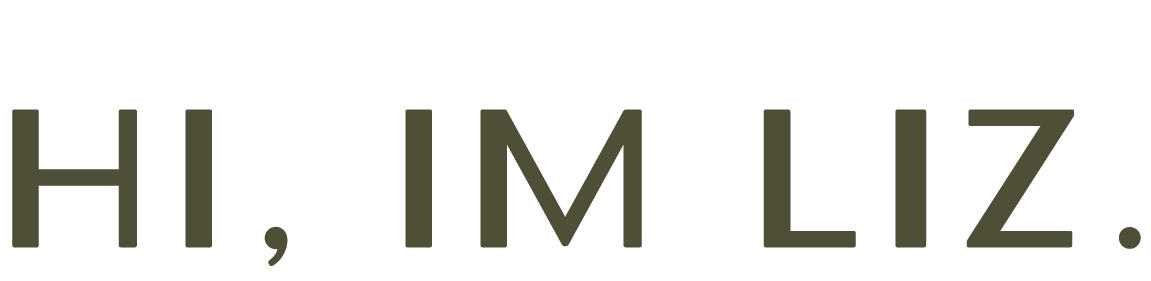
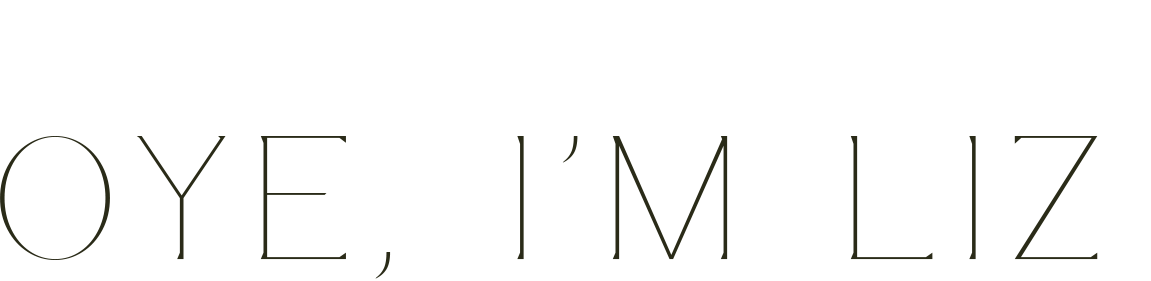
font update

diff --git a/index.html b/index.html
@@ -41,7 +41,7 @@
 <!-- PAGELOADER -->
 <div id="page-loader">
 	<div class="page-loader-inner">
-		<div class="loader">standby...</div>
+		<div class="loader"><img src="img/standby.png" style="width:130px; height: auto; margin-top:10px;"></div>
 	</div>
 </div>
 <!-- PAGELOADER -->
@@ -54,13 +54,12 @@
 		<div class="header-inner clearfix">
 			
             <div id="logo" class="left-float">
-                <a id="dark-logo" class="logotype" href="index.html"><img src="files/uploads/logo-avoc-dark.png" srcset="img/liz-logo-final-02.png 1x, img/liz-logo-final-02.png 2x" alt="Logo"></a>
+                <a id="dark-logo" class="logotype" href="index.html"><img src="img/liz-logo-final-02.png" srcset="img/liz-logo-final-02.png 1x, img/liz-logo-final-02.png 2x" alt="Logo"></a>
             </div>
             
             <div id="menu" class="right-float align-right">
 				<!--<a href="hooplah.html"><span class="text">HOOPLAH</span></a> -->
-				<a href="about.html">about</a>
-
+				<a id="dark-logo" class="logotype" href="about.html"><img src="img/about.png" srcset="img/about.png 1x, img/about.png 2x" style="width:120px;height:auto;margin-top:10px;"alt="Logo"></a>
             </div>    
                             
 		</div> <!-- END .header-inner -->
@@ -68,120 +67,147 @@
 	<!-- HEADER -->    
 	
 
-	   	<!-- HERO  -->
+	   	<!-- HERO 
 		   <section id="hero" class="hero-full parallax-section" data-parallax-image="files/uploads/1680x1100-light.jpg">
 			<div class="page-title">
-					<img src="img/website-09.png" style="width:280px; height: auto; margin-top:0;">
+					<img src="img/website-09.png" style="width:580px; height: auto; margin-top:0;">
 					<h6 class="title2">My name is Liz and I'm a multifunctional <br>designer based in california.</h6>
 			</div>
 			<a id="scroll-down" style="margin-bottom:40px;" href="#"><img src="img/stay-awhile-final.gif" style="width:100px; height: auto;"></a>
 		</section>
 		<!-- HERO -->
+
+
+		<!-- HERO  -->
+	<section id="hero" class="hero-auto">
+    	<div class="page-title wrapper-small">
+
+				<div class="spacer spacer-small"></div>
+
+			<img src="img/website-09.png" style="width:480px; height: auto; margin-top:0;">
+			<h6 class="title2">My name is Liz and I'm a multifunctional <br>designer based in california.</h6>
+    	</div> <!-- END .page-title -->
+    </section>
+	<!-- HERO -->
+	
 		<div class="spacer spacer-small"></div>
 
 	<!-- PAGEBODY -->
 	<section id="page-body" class="nopadding">
-    		<div class="spacer spacer-small"></div>
-			<div class="spacer spacer-small"></div>
-
-		<div class="wrapper">
-        
-			<div id="portfolio-grid" class="wolf-grid clearfix" data-captionparallax="false">
-
-				
-				<div class="wolf-item photography-wolf-item">
-					<div class="wolf-item-inner">
-						<div class="wolf-media photography-media">
-							<a href="talent-connection-group.html" class="wolf-media-link img-hover"><img src="img/tcg/tcg-home-rev.jpg" alt="SEO NAME">
-								<div class="hover-caption"><h6 style="font-size: 12px; letter-spacing:2px; text-transform: uppercase; margin-top:10px; text-align:center; color:black; opacity: 1;">talent connection group / branding</h6></div>
-							</a>
-						</div>
-
-					</div>
-				</div>
-				
-				<div class="wolf-item photography-wolf-item">
-					<div class="wolf-item-inner">
-						<div class="wolf-media photography-media">
-							<a href="cocktail-camper-co.html" class="wolf-media-link img-hover"><img src="img/ccc/ccc-home-18.jpg" alt="SEO NAME">
-								<div class="hover-caption"><h6 style="font-size: 12px; letter-spacing:2px; text-transform: uppercase; margin-top:10px; text-align:center; color:black; opacity: 1;">cocktail camper co. / branding</h6></div>
-							</a>
-                    	</div>
-
-					</div>
-				</div>
-
-                
-                <div class="wolf-item photography-wolf-item">
-					<div class="wolf-item-inner">
-						<div class="wolf-media photography-media">
-							<a href="gorjana.html" class="wolf-media-link img-hover"><img src="img/gorjana/g-home.jpg" alt="SEO NAME">
-								<div class="hover-caption"><h6 style="font-size: 12px; letter-spacing:2px; text-transform: uppercase; margin-top:10px; text-align:center; color:black; opacity: 1;">gorjana / email design</h6></div>
-							</a>
-                    	</div>
-					</div>
-				</div>
-
-                <div class="wolf-item photography-wolf-item">
-					<div class="wolf-item-inner">
-						<div class="wolf-media photography-media">
-							<a href="this-mama-needs-grace.html" class="wolf-media-link img-hover"><img src="img/tmng/tmng-home.jpg" alt="SEO NAME">
-								<div class="hover-caption"><h6 style="font-size: 12px; letter-spacing:2px; text-transform: uppercase; margin-top:10px; text-align:center; color:black; opacity: 1;">TMNG / logo design</h6></div>
-							</a>
-                    	</div>
-
-					</div>
-				</div>
-
-				<div class="wolf-item photography-wolf-item">
+    	
+			<div class="wrapper">
+			
+				<div id="portfolio-grid" class="wolf-grid clearfix" data-captionparallax="false">
+					
+					<div class="wolf-item photography-wolf-item">
 						<div class="wolf-item-inner">
 							<div class="wolf-media photography-media">
-								<a href="#" class="wolf-media-link img-hover"><img src="img/itb/itb-home-13.png" alt="SEO NAME">
-									<div class="hover-caption"><h6 style="font-size: 12px; letter-spacing:2px; text-transform: uppercase; margin-top:10px; text-align:center; color:black; opacity: 1;">inthebag / app design *coming soon*</h6></div>
+								<a href="talent-connection-group.html" class="wolf-media-link"><img src="img/tcg/tcg-home-rev.jpg" alt="SEO NAME"></a>
+							</div>
+							
+							<div class="wolf-caption static photography-caption">
+								<a href="talent-connection-group.html">
+									<img src="img/tcg.png" style="width:280px; height: auto; margin-top:10px;">
 								</a>
 							</div>
-	
 						</div>
 					</div>
-                
-
-				<div class="wolf-item photography-wolf-item">
+					
+					<div class="wolf-item photography-wolf-item">
 						<div class="wolf-item-inner">
 							<div class="wolf-media photography-media">
-								<a href="https://www.behance.net/gallery/73583481/Little-Kids-Rock-Case-Study" class="wolf-media-link img-hover" target="_blank"><img src="img/lkr/LKR-HOME2.jpg" alt="SEO NAME">
-									<div class="hover-caption"><h6 style="font-size: 12px; letter-spacing:2px; text-transform: uppercase; margin-top:10px; text-align:center; color:black; opacity: 1;">little kid's rock / case study *coming soon*</h6></div>
-								</a>
+								<a href="cocktail-camper-co.html" class="wolf-media-link"><img src="img/ccc/ccc-home-18.jpg" alt="SEO NAME"></a>
 							</div>
-	
+							
+							<div class="wolf-caption static photography-caption">
+								<a href="cocktail-camper-co.html">
+										<img src="img/ccc.png" style="width:240px; height: auto; margin-top:10px;">
+									</a>
+							</div>
 						</div>
 					</div>
-	
-
-				<!--<div class="wolf-item wfull photography-wolf-item" data-speed="0.2">
+					
+					<div class="wolf-item photography-wolf-item">
 						<div class="wolf-item-inner">
 							<div class="wolf-media photography-media">
-								<a href="portfolio-single-4.html" class="wolf-media-link img-hover"><img src="files/uploads/1100x600-light.jpg" alt="SEO NAME">
-									<div class="hover-caption"><h6 style="font-size: 12px; letter-spacing:2px; text-transform: uppercase; margin-top:10px; text-align:center; color:black; opacity: 1;">cocktail camper co. / branding</h6></div>
+								<a href="gorjana.html" class="wolf-media-link"><img src="img/gorjana/g-home.jpg" alt="SEO NAME"></a>
+							</div>
+							
+							<div class="wolf-caption static photography-caption">
+								<a href="gorjana.html">
+										<img src="img/gorjana.png" style="width:290px; height: auto; margin-top:10px;">
 								</a>
 							</div>
-						
+						</div>
+					</div>
+					
+					<div class="wolf-item photography-wolf-item">
+						<div class="wolf-item-inner">
+							<div class="wolf-media photography-media">
+								<a href="this-mama-needs-grace.html" class="wolf-media-link"><img src="img/tmng/tmng-home.jpg" alt="SEO NAME"></a>
+							</div>
+							
+							<div class="wolf-caption static photography-caption">
+								<a href="this-mama-needs-grace.html">
+										<img src="img/tmng.png" style="width:290px; height: auto; margin-top:10px;">
+								</a>
+							</div>
+						</div>
+					</div>
+					
+					<!--<div class="wolf-item wfull photography-wolf-item" data-speed="0.2">
+						<div class="wolf-item-inner">
+							<div class="wolf-media photography-media">
+								<a href="portfolio-single-4.html" class="wolf-media-link"><img src="files/uploads/1100x600-light.jpg" alt="SEO NAME"></a>
+							</div>
+							
+							<div class="wolf-caption static photography-caption">
+								<a href="portfolio-single-4.html">
+								<h6 class="portfolio-name"><strong>Schanzenbabies</strong></h6>
+								</a>
+							</div>
 						</div>
 					</div>-->
-
-					</div>
-				</div>    
-              		
-			</div> <!-- END #portfolio-grid .wolf-grid -->
-           
-		</div> <!-- END .wrapper -->
-        
- 	</section>
-	<!-- PAGEBODY -->
+					
+					<div class="wolf-item photography-wolf-item">
+						<div class="wolf-item-inner">
+							<div class="wolf-media photography-media">
+								<a href="little-kids-rock.html" class="wolf-media-link"><img src="img/lkr/LKR-HOME2.jpg" alt="SEO NAME"></a>
+							</div>
+							
+							<div class="wolf-caption static photography-caption">
+								<a href="little-kids-rock.html">
+										<img src="img/lkr.png" style="width:290px; height: auto; margin-top:10px;">
+								</a>
+							</div>
+						</div>
+					</div>    
+					
+					<div class="wolf-item photography-wolf-item">
+						<div class="wolf-item-inner">
+							<div class="wolf-media photography-media">
+								<a href="#" class="wolf-media-link"><img src="img/itb/itb.jpg" alt="SEO NAME"></a>
+							</div>
+							
+							<div class="wolf-caption static photography-caption">
+								<a href="#">
+										<img src="img/itb.png" style="width:290px; height: auto; margin-top:10px;">
+								</a>
+							</div>
+						</div>
+					</div> 
+										
+				</div> <!-- END #portfolio-grid .wolf-grid -->
+			   
+			</div> <!-- END .wrapper -->
+			
+		 </section>
+		<!-- PAGEBODY -->
     
     <!-- FOOTER -->  
     <footer>
 
-			<a id="backtotop" href="#">Back To Top</a>
+			<a id="backtotop" href="#"><img src="img/top.png" style="width:60px; height: auto; margin-top:10px;"></a>
 
         <div class="footer-inner align-center wrapper copyright">
             <div class="widget">

diff --git a/about.html b/about.html
@@ -39,7 +39,7 @@
 <!-- PAGELOADER -->
 <div id="page-loader">
 	<div class="page-loader-inner">
-            <div class="loader">standby...</div>
+            <div class="loader"><img src="img/standby.png" style="width:130px; height: auto; margin-top:10px;"></div>
         </div>
 </div>
 <!-- PAGELOADER -->
@@ -56,7 +56,7 @@
                 </div>
                 
                 <div id="menu" class="right-float clearfix">
-                    <a href="index.html">SELECTED WORKS</a>
+                        <a id="dark-logo" class="logotype" href="about.html"><img src="img/about.png" srcset="img/about.png 1x, img/about.png 2x" style="width:120px;height:auto;margin-top:10px;"alt="Logo"></a>
                    
                 </div>    
                                 

diff --git a/cocktail-camper-co.html b/cocktail-camper-co.html
@@ -38,7 +38,7 @@
 <!-- PAGELOADER -->
 <div id="page-loader">
 	<div class="page-loader-inner">
-			<div class="loader">standby...</div>
+			<div class="loader"><img src="img/standby.png" style="width:130px; height: auto; margin-top:10px;"></div>
 		</div>
 </div>
 <!-- PAGELOADER -->
@@ -56,7 +56,7 @@
 				
 				<div id="menu" class="right-float align-right">
 					<!--<a href="hooplah.html"><span class="text">HOOPLAH</span></a> -->
-					<a href="about.html">about</a>
+					<a id="dark-logo" class="logotype" href="about.html"><img src="img/about.png" srcset="img/about.png 1x, img/about.png 2x" style="width:120px;height:auto;margin-top:10px;"alt="Logo"></a>
 	
 				</div>    
 								

diff --git a/gorjana.html b/gorjana.html
@@ -38,7 +38,7 @@
 <!-- PAGELOADER -->
 <div id="page-loader">
 	<div class="page-loader-inner">
-			<div class="loader">standby...</div>
+			<div class="loader"><img src="img/standby.png" style="width:130px; height: auto; margin-top:10px;"></div>
 		</div>
 </div>
 <!-- PAGELOADER -->
@@ -56,7 +56,7 @@
 				
 				<div id="menu" class="right-float align-right">
 					<!--<a href="hooplah.html"><span class="text">HOOPLAH</span></a> -->
-					<a href="about.html">about</a>
+					<a id="dark-logo" class="logotype" href="about.html"><img src="img/about.png" srcset="img/about.png 1x, img/about.png 2x" style="width:120px;height:auto;margin-top:10px;"alt="Logo"></a>
 	
 				</div>    
 								

diff --git a/little-kid's-rock.html b/little-kid's-rock.html
@@ -38,7 +38,7 @@
 <!-- PAGELOADER -->
 <div id="page-loader">
 	<div class="page-loader-inner">
-			<div class="loader">standby...</div>
+			<div class="loader"><img src="img/standby.png" style="width:130px; height: auto; margin-top:10px;"></div>
 		</div>
 </div>
 <!-- PAGELOADER -->
@@ -56,7 +56,7 @@
 				
 				<div id="menu" class="right-float align-right">
 					<!--<a href="hooplah.html"><span class="text">HOOPLAH</span></a> -->
-					<a href="about.html">about</a>
+					<a id="dark-logo" class="logotype" href="about.html"><img src="img/about.png" srcset="img/about.png 1x, img/about.png 2x" style="width:120px;height:auto;margin-top:10px;"alt="Logo"></a>
 	
 				</div>    
 								

diff --git a/talent-connection-group.html b/talent-connection-group.html
@@ -38,7 +38,7 @@
 <!-- PAGELOADER -->
 <div id="page-loader">
 	<div class="page-loader-inner">
-			<div class="loader">standby...</div>
+			<div class="loader"><img src="img/standby.png" style="width:130px; height: auto; margin-top:10px;"></div>
 		</div>
 </div>
 <!-- PAGELOADER -->
@@ -56,7 +56,7 @@
 				
 				<div id="menu" class="right-float align-right">
 					<!--<a href="hooplah.html"><span class="text">HOOPLAH</span></a> -->
-					<a href="about.html">about</a>
+					<a id="dark-logo" class="logotype" href="about.html"><img src="img/about.png" srcset="img/about.png 1x, img/about.png 2x" style="width:120px;height:auto;margin-top:10px;"alt="Logo"></a>
 	
 				</div>    
 								

diff --git a/this-mama-needs-grace.html b/this-mama-needs-grace.html
@@ -38,7 +38,7 @@
 <!-- PAGELOADER -->
 <div id="page-loader">
 	<div class="page-loader-inner">
-			<div class="loader">standby...</div>
+			<div class="loader"><img src="img/standby.png" style="width:130px; height: auto; margin-top:10px;"></div>
 		</div>
 </div>
 <!-- PAGELOADER -->
@@ -56,7 +56,7 @@
 				
 				<div id="menu" class="right-float align-right">
 					<!--<a href="hooplah.html"><span class="text">HOOPLAH</span></a> -->
-					<a href="about.html">about</a>
+					<a id="dark-logo" class="logotype" href="about.html"><img src="img/about.png" srcset="img/about.png 1x, img/about.png 2x" style="width:120px;height:auto;margin-top:10px;"alt="Logo"></a>
 	
 				</div>    
 								
